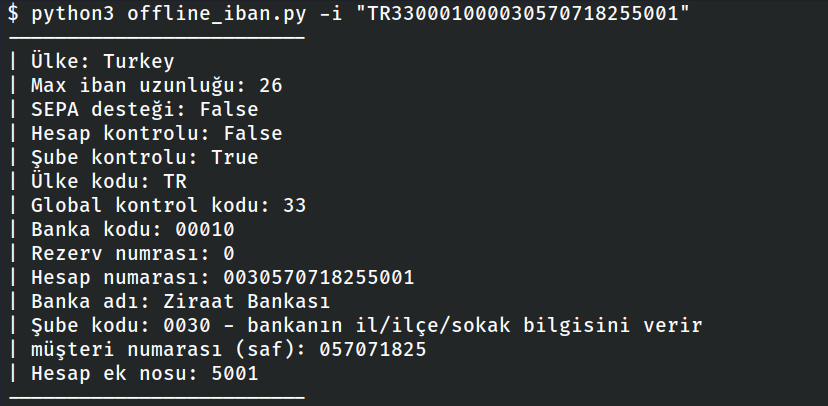
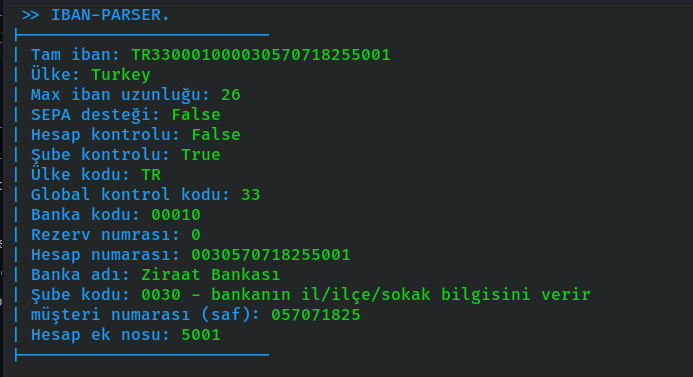
Add files via upload

Changed region(s): [[0.0, 0.0, 0.8485, 0.992]]

diff --git a/offline_iban.py b/offline_iban.py
@@ -20,7 +20,8 @@ python3 dosya.py -i "çözümlenecek_iban"
 UYARI: IBAN'I YAZARKEN BOSLUK KULLANMYAINIZ 
 """
 import argparse
-
+from colorama import *
+import os
 arguman = argparse.ArgumentParser()
 arguman.add_argument("-i","--iban",required=True,help="usage: -i \"TR330001000030570718255001\"")
 argumanlar = vars(arguman.parse_args())
@@ -33,7 +34,12 @@ def country_detect (raw_1):
     global account_control
     global bank_branch
     global status_sepa
-    country_number = raw_1[0] + raw_1[1]
+    try:
+        country_number = raw_1[0] + raw_1[1]
+        country_number = country_number.upper()
+    except Exception:
+        print(f"{Fore.RED}Eksik veri.!{Style.RESET_ALL}")
+        return exit(1)
     if country_number == "TR":
         country = "Turkey"
         max_leng = 26
@@ -630,23 +636,26 @@ def country_detect (raw_1):
     else :
         country = "Not detected...!"
         error_satut = True
-    
-    return country , max_leng , status_sepa , account_control , bank_branch , country_number
 
+    return country , max_leng , status_sepa , account_control , bank_branch , country_number
+    
 
 def iban_parametres(iban_1):
     global control_number_global 
     global bank_code_local
     global rezerve_code  
     if country_detect(iban_1)[0] == "Turkey":
-        control_number_global = iban_1[2] + iban_1[3]
-        bank_code_local = iban_1[4] + iban_1[5] + iban_1[6] + iban_1[7] + iban_1[8]
-        rezerve_code = iban_1[9]
-        account_number = iban_1[10:26]
-        sube_kodu = iban_1[10:14]
-        müşteri_nosu_raw = iban_1[13:22]
-        hesap_eki_kodu = iban_1[22:]
-        
+        try:
+            control_number_global = iban_1[2] + iban_1[3]
+            bank_code_local = iban_1[4] + iban_1[5] + iban_1[6] + iban_1[7] + iban_1[8]
+            rezerve_code = iban_1[9]
+            account_number = iban_1[10:26]
+            sube_kodu = iban_1[10:14]
+            müşteri_nosu_raw = iban_1[13:22]
+            hesap_eki_kodu = iban_1[22:]
+        except Exception:
+            print(f"{Fore.RED}Eksik veri.!{Style.RESET_ALL}")
+            return exit(1)
         if bank_code_local == "00001":
             bank_name = "TC Merkez Bankası"
         elif bank_code_local == "00004":
@@ -720,46 +729,72 @@ def iban_parametres(iban_1):
         else:
             else_proc = "0"
             return else_proc
-
-        
-    return control_number_global, bank_code_local, rezerve_code, account_number , bank_name ,sube_kodu , müşteri_nosu_raw, hesap_eki_kodu
         #16
-
+    else:
+        control_number_global = "DESTEKLENMİYOR"
+        bank_code_local =  "DESTEKLENMİYOR"
+        rezerve_code = "DESTEKLENMİYOR"
+        account_number =  "DESTEKLENMİYOR"
+        sube_kodu = "DESTEKLENMİYOR"
+        müşteri_nosu_raw = "DESTEKLENMİYOR"
+        hesap_eki_kodu = "DESTEKLENMİYOR"
+        bank_name = "DESTEKLENMİYOR"
+    return control_number_global, bank_code_local, rezerve_code, account_number , bank_name ,sube_kodu , müşteri_nosu_raw, hesap_eki_kodu
 
 ulke = country_detect(iban)
+
 others_data = iban_parametres(iban)
 
 raw_iban_leng = len(iban)
 standart_leng = ulke[1]
 
+mavi = Fore.BLUE
+temiz = Style.RESET_ALL
+yesil = Fore.GREEN
+
+if os.name == 'nt':
+    try:
+        os.system("clear")
+    except Exception:
+        try:
+            os.system("cls")
+        except Exception:
+            pass
+else:
+    try:
+        os.system("clear")
+    except Exception:
+        pass
+print(f"{mavi} >> IBAN-PARSER.{temiz}")
 if raw_iban_leng == standart_leng:
     if iban_parametres(iban) != 0:
-        print ("-------------------------")
-        print (f"| Ülke: {ulke[0]}")
-        print (f"| Max iban uzunluğu: {ulke[1]}")
-        print (f"| SEPA desteği: {ulke[2]}")
-        print (f"| Hesap kontrolu: {ulke[2]}")
-        print (f"| Şube kontrolu: {ulke[4]}")
-        print (f"| Ülke kodu: {ulke[5]}")
-        print (f"| Global kontrol kodu: {others_data[0]}")
-        print (f"| Banka kodu: {others_data[1]}")
-        print (f"| Rezerv numrası: {others_data[2]}")
-        print (f"| Hesap numarası: {others_data[3]}") 
-        print (f"| Banka adı: {others_data[4]}")
-        print (f"| Şube kodu: {others_data[5]} - bankanın il/ilçe/sokak bilgisini verir")
-        print (f"| müşteri numarası (saf): {others_data[6]}")
-        print (f"| Hesap ek nosu: {others_data[7]}")
-        print ("-------------------------")
+        print (f"{mavi}|-------------------------")
+        print (f"| Tam iban:{temiz}{yesil} {iban}{temiz}")
+        print (f"{mavi}| Ülke:{yesil} {ulke[0]}{temiz}")
+        print (f"{mavi}| Max iban uzunluğu:{yesil} {ulke[1]}")
+        print (f"{mavi}| SEPA desteği:{yesil} {ulke[2]}")
+        print (f"{mavi}| Hesap kontrolu:{yesil} {ulke[2]}")
+        print (f"{mavi}| Şube kontrolu:{yesil} {ulke[4]}")
+        print (f"{mavi}| Ülke kodu:{yesil} {ulke[5]}")
+        print (f"{mavi}| Global kontrol kodu:{yesil} {others_data[0]}")
+        print (f"{mavi}| Banka kodu:{yesil} {others_data[1]}")
+        print (f"{mavi}| Rezerv numrası:{yesil} {others_data[2]}")
+        print (f"{mavi}| Hesap numarası:{yesil} {others_data[3]}") 
+        print (f"{mavi}| Banka adı:{yesil} {others_data[4]}")
+        print (f"{mavi}| Şube kodu:{yesil} {others_data[5]} - bankanın il/ilçe/sokak bilgisini verir")
+        print (f"{mavi}| müşteri numarası (saf):{yesil} {others_data[6]}")
+        print (f"{mavi}| Hesap ek nosu:{yesil} {others_data[7]}")
+        print (f"{mavi}|-------------------------{temiz}")
     else:
-        print ("İban geçersizdir...!")
+        print (f"{Fore.RED}İban geçersizdir...!{temiz}")
 
 elif raw_iban_leng > standart_leng:
-    print ("İban olması gerekenden uzun...!")
-    print ("Bu iban geçersizdir...!")
+    print (f"{Fore.RED}İban olması gerekenden uzun...!")
+    print (f"Bu iban geçersizdir...!{temiz}")
 
 elif raw_iban_leng < standart_leng:  
-        print ("İban olması gerekenden kısa...!")
-        print ("Bu iban geçersizdir...!")
+        print (f"{Fore.RED}İban olması gerekenden kısa...!")
+        print (f"Bu iban geçersizdir...!{temiz}")
 else:
-        print ("Bilinmeyen hata...!")
+        print (f"{Fore.RED}Bilinmeyen hata...!{temiz}")
     
